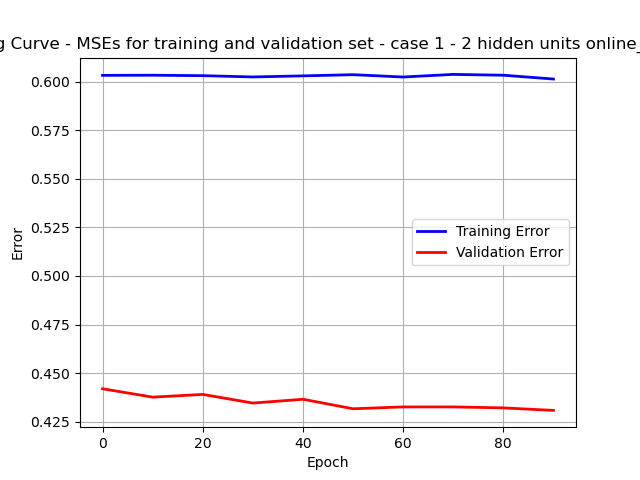
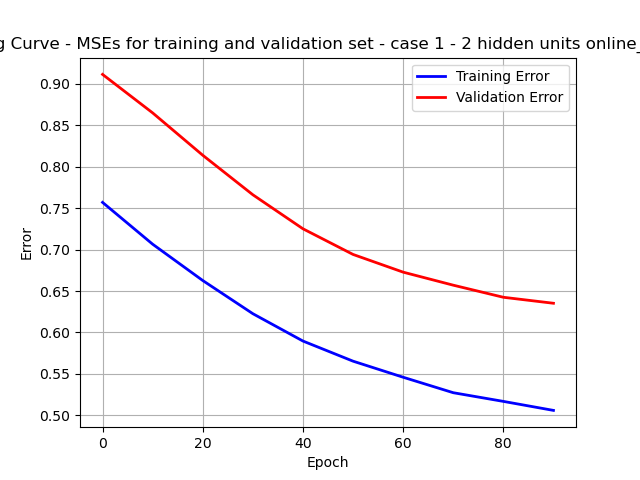
graphics updated

diff --git a/Lab1b/Task_3/Task_3_1_1.py b/Lab1b/Task_3/Task_3_1_1.py
@@ -40,8 +40,8 @@ cache = {}
 #First case: 25% of class A and 25% of class B
 trainA1, validA1, trainB1, validB1 = data_generation.generate_splited_data(
     n=100,  
-    percent_of_A=0.25,
-    percent_of_B=0.25,
+    percent_of_A=0.75,
+    percent_of_B=0.75,
     task_d=False
 )
 cache['trainA1'] = trainA1.T
@@ -54,7 +54,7 @@ cache['validB1'] = validB1.T if validB1 is not None else None
 trainA2, validA2, trainB2, validB2 = data_generation.generate_splited_data(
     n=100,  
     percent_of_A=0.5,
-    percent_of_B=0.0,
+    percent_of_B=1.0,
     task_d=False
 )
 cache['trainA2'] = trainA2.T
@@ -68,7 +68,7 @@ cache['validB2'] = validB2.T if validB2 is not None else None
 trainA3, validA3, trainB3, validB3 = data_generation.generate_splited_data(
     n=100,  
     percent_of_A=0.0,
-    percent_of_B=0.0,
+    percent_of_B=1.0,
     task_d=True
 )
 cache['trainA3'] = trainA3.T
@@ -83,7 +83,7 @@ for i in range(1,4):
     X_train, targets_train, X_validation , targets_validation  = data_generation.prepare_train_valid_dataset(cache[f"trainA{i}"],cache[f"trainB{i}"],cache[f"validA{i}"],cache[f"validB{i}"])
     NUMBER_OF_INPUTS = [X_train.shape[0]]
     NUMBER_OF_OUTPUTS = [1]
-    HIDDEN_LAYERS = [2] # number of nodes per hidden layer
+    HIDDEN_LAYERS = [80] # number of nodes per hidden layer
     
     network = BackpropCode.NeuralNetwork(NUMBER_OF_INPUTS + HIDDEN_LAYERS + NUMBER_OF_OUTPUTS )
     MSEs_training, MSEs_validation = network.train_with_validation_set(X_train,targets_train,X_validation,targets_validation, 100)
@@ -135,4 +135,36 @@ for i in range(1,4):
     if(filename != None):
         save_path = os.path.join('Lab1b', 'Task_3', 'Plots', f'{filename}.png')
         plt.savefig(save_path)
+    plt.show()
+    
+    
+    ##### plot the decision boundaries
+    #### we use all the samples of our dataset to plot the decision boundaries
+    X_A = np.hstack([cache[f"trainA{i}"], cache[f"validA{i}"]])
+    X_B = None
+    
+    if(cache[f"validB{i}"] is None):
+        X_B = cache[f"trainB{i}"]
+    else:
+        X_B = np.hstack([cache[f"trainB{i}"], cache[f"validB{i}"]])
+        
+    plots.plot_decision_regions(network,X_A,X_B)
+    plt.title(f'Decision Boundary - Case {i} - {HIDDEN_LAYERS[0]} hidden units')
+    filename=f"Decision_Boundary_Case_{i}_{HIDDEN_LAYERS[0]}_hidden_units"
+    
+    save_path = os.path.join('Lab1b', 'Task_3', 'Plots', f'{filename}.png')
+    plt.savefig(save_path)
+    plt.show()
+    
+    ##### plot the decision boundaries
+    #### we use only the training data samples
+    X_A = cache[f"trainA{i}"]
+    X_B = cache[f"trainB{i}"]
+    
+    plots.plot_decision_regions(network,X_A,X_B)
+    plt.title(f'Decision Boundary - Training Data Samples - Case {i}')
+    filename=f"Decision_Boundary_Case_{i}_training_data_samples"
+    
+    save_path = os.path.join('Lab1b', 'Task_3', 'Plots', f'{filename}.png')
+    plt.savefig(save_path)
     plt.show()
